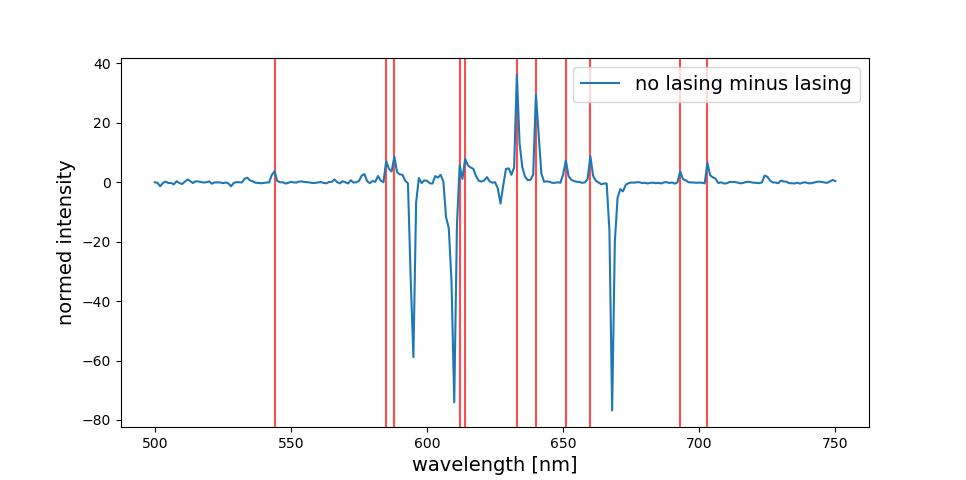
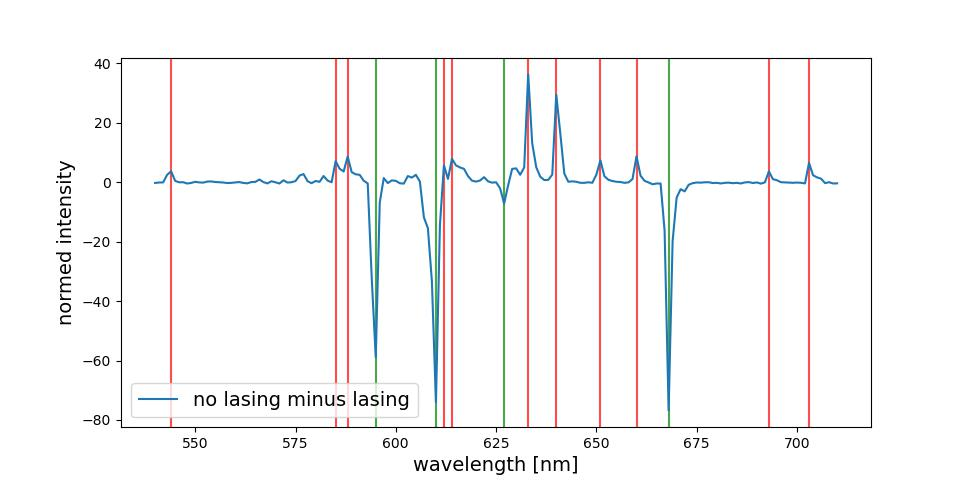
A5 WIP

diff --git a/HeNe Laser/Versuchsbericht/Sektionen/4-Auswertungsteile/4-5-Auswertungsteil.tex b/HeNe Laser/Versuchsbericht/Sektionen/4-Auswertungsteile/4-5-Auswertungsteil.tex
@@ -6,7 +6,7 @@ The selection of certain laser wavelengths can be achived with the introdcution 
 
 \subsubsection{Birefringent tuner}
     \paragraph{Methodology}
-        One possible realisation for these losses is using a birefringent quartz crystal ($n_Q \approx\num{1.55}$ for the main laser line of $\lambda = \SI{633}{nm}$). The setup used in the experiment is shown in figure \ref{fig:5-Aufbau}.
+        One possible realisation for these losses is using a birefringent quartz crystal ($n_Q \approx\num{1.55}$ for the main laser line of $\lambda = \SI{632.1}{nm}$). The setup used in the experiment is shown in figure \ref{fig:5-Aufbau}.
 
         \begin{figure}[H]
             \centering 
@@ -22,7 +22,7 @@ The selection of certain laser wavelengths can be achived with the introdcution 
     \begin{table}[H]
         \centering 
         \begin{tabular}{c | c c}
-            \textbf{Wavelength} & \textbf{Times observed} & \textbf{Correlated transtion}\\\hline\hline
+            \textbf{wavelength} & \textbf{times observed} & \textbf{correlated transtion}\\\hline\hline
             \SI{633.0(10)}{\nm} & 6 & $3S^2\to 2p^4$\\
             \SI{640.0(10)}{\nm} & 2 & $3S^2\to 2p^2$
         \end{tabular}
@@ -44,12 +44,66 @@ The selection of certain laser wavelengths can be achived with the introdcution 
 
     \begin{figure}[H]
         \centering 
-        \includegraphics[width = 11cm]{Bilddateien/5-NeonSpektren.jpg}
-        \caption{Incoherent scattering spectrum for HeNe-gas. Three main peaks, marked with a red line each, were observed in total. In order of ascending intensity, these peaks occured at \SI{668}{\nm}, \SI{588}{\nm} and \SI{638}{\nm}.}
+        \includegraphics[width = 15cm]{Bilddateien/5-NeonSpektren.jpg}
+        \caption{Incoherent scattering spectrum for HeNe-gas. Three main peaks, marked with a red line each, were observed in total.}
         \label{fig:5-NeonSpektren}
     \end{figure}
 
-    Interestingely, the three larget peaks in spectrum \ref{fig:5-NeonSpektren} do not correspond to any possible transitions in the 
+    \noindent The three larget peaks in figure \ref{fig:5-NeonSpektren} are listed in table \ref{tab:5-NeonSpektren}.
 
+     \begin{table}[H]
+        \centering 
+        \begin{tabular}{c | c c | c}
+            \textbf{wavelength} & \textbf{theoretical laser line} & \textbf{correlated transition} & \textbf{compatible}\\\hline\hline
+            \SI{668.0(10)}{\nm} & - & - & -\\\hline
+            \SI{588.0(10)}{\nm} & \SI{593.0}{\nm} & $3S^2 \to 2P^8$ & \textcolor{red}{No}\\\hline
+            \SI{638.0(10)}{\nm} & \SI{640.1}{\nm} & $3S^2 \to 2P^2$ & \textcolor{red}{No} 
+        \end{tabular}
+        \caption{Observed main peaks in spetrum \ref{fig:5-NeonSpektren} in order of ascending intensity. For each wavelength, the closest theoretical laser line is matched if one exists within $\pm\SI{5}{\nm}$ of the experimental value.}
+        \label{tab:5-NeonSpektren}
+     \end{table}
+
+     \noindent The laser line \SI{640.1}{\nm} thus has the highest spontaneous emission rate. One peak at \SI{668.0(10)}{\nm} does not match to any laser line and is possible due to transitions in helium molecules. Interestingly, the main laser line at \SI{632.1}{\nm} does not appear at all as a peak, much less as a one of the three largest peaks.\\
+
+     \noindent For a identification of all laser lines, the difference of the spcetrum for no lasing and lasing is shown in figure \ref{fig:5-NeonspektrumDifferenz}.
+
+     \begin{figure}[H]
+        \centering 
+        \includegraphics[width = 15cm]{Bilddateien/5-NeonspektrumDifferenz.jpg}
+        \caption{Fluorescence spectrum for HeNe-gas when lasing is active. Peaks are marked with red lines, valley with green lines.}
+        \label{fig:5-NeonspektrumDifferenz}
+    \end{figure}
+
+    \noindent As expected, this spectrum has mostly positive values, meaning the fluorescence of the HeNe-gas is less intense during lasing. This can be explained by the fact that more \textit{coherent} emissions are happening and competing with spontaneous emission. For coherent emission in direction of the light oscillating in the resonator, the photons have no possibility to randomly scatter into the direction of the spectrometer. 
+    
+    However, there are three valleys with negative intensity, meaning an increase for incoherent scattering. For more detail, all observed spectral lines are listed in table
+
+    \begin{table}[H]
+        \centering 
+        \begin{tabular}{c | c c | c}
+            \textbf{wavelength} & \textbf{theoretical laser line} & \textbf{correlated transition} & \textbf{compatible}\\\hline\hline
+            \SI{693.0(10)}{\nm} & - & - & - \\\hline
+            \SI{544.0(10)}{\nm} & \SI{543.3}{\nm} & $3S^2 \to 2P^10$ & \textcolor{ForestGreen}{Yes}\\\hline
+            \SI{612.0(10)}{\nm} & \SI{611.8}{\nm} & $3S^2 \to 2P^6$ & \textcolor{ForestGreen}{Yes}\\\hline
+            \SI{703.0(10)}{\nm} & - & - & - \\\hline
+            \SI{585.0(10)}{\nm} & - & - & - \\\hline
+
+            \SI{651.0(10)}{\nm} & - & - & - \\\hline
+            \SI{614.0(10)}{\nm} & - & - & - \\\hline
+            \SI{588.0(10)}{\nm} & \SI{593.9}{\nm} & $3S^2 \to 2P^8$ & \textcolor{red}{No} \\\hline
+            \SI{660.0(10)}{\nm} & - & - & - \\\hline
+            \SI{640.0(10)}{\nm} & \SI{640.1}{\nm} & $3S^2 \to 2P^2$ & \textcolor{ForestGreen}{Yes}\\\hline
+
+            \SI{633.0(10)}{\nm} & \SI{632.8}{\nm} & $3S^2 \to 2P^4$ & \textcolor{ForestGreen}{Yes}\\\hdashline
+            \SI{668.0(10)}{\nm} & - & - & -\\\hline
+            \SI{610.0(10)}{\nm} & - & - & -\\\hline
+            \SI{595.0(10)}{\nm} & - & - & -\\\hline
+            \SI{627.0(10)}{\nm} & - & - & -
+        \end{tabular}
+        \caption{Observed spectral lines in spetrum \ref{fig:5-NeonSpektren} in order of ascending intensity. The dashed line acts as a separator between peaks and valleys. For each wavelength, the closest theoretical laser line is matched if one exists within $\pm\SI{5}{\nm}$ of the experimental value.}
+        \label{tab:5-NeonSpektren}
+     \end{table}
+
+     \noindent In total, five of the observed peaks can be matched to Neon transitions. 
 
 \end{document}

diff --git a/HeNe Laser/Versuchsbericht/main.tex b/HeNe Laser/Versuchsbericht/main.tex
@@ -11,6 +11,7 @@
 \usepackage{UniLaTeXPackage}
 \usepackage{svg}
 \usepackage[version=4]{mhchem}
+\usepackage{arydshln}
 
 
 \begin{document}
